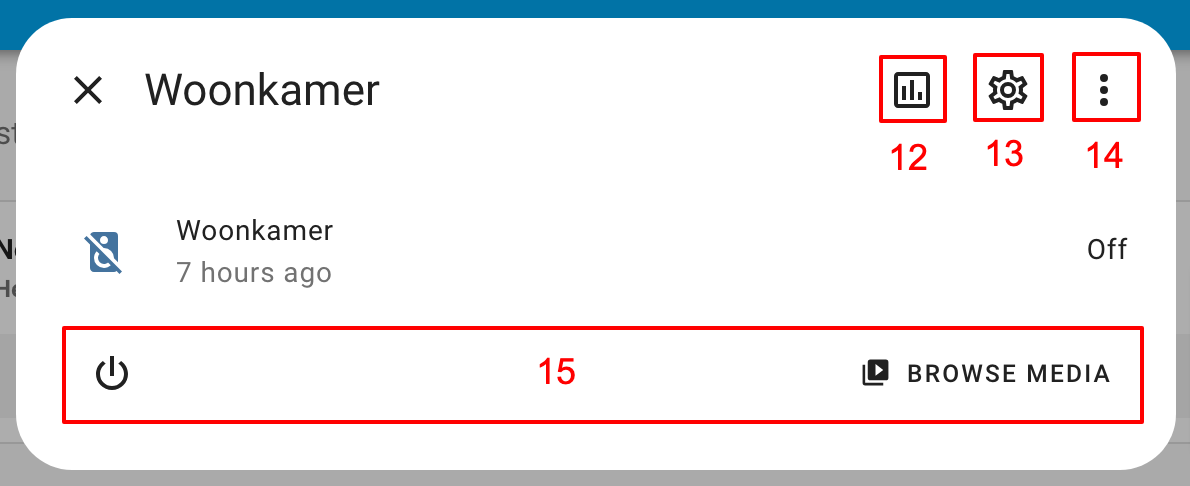
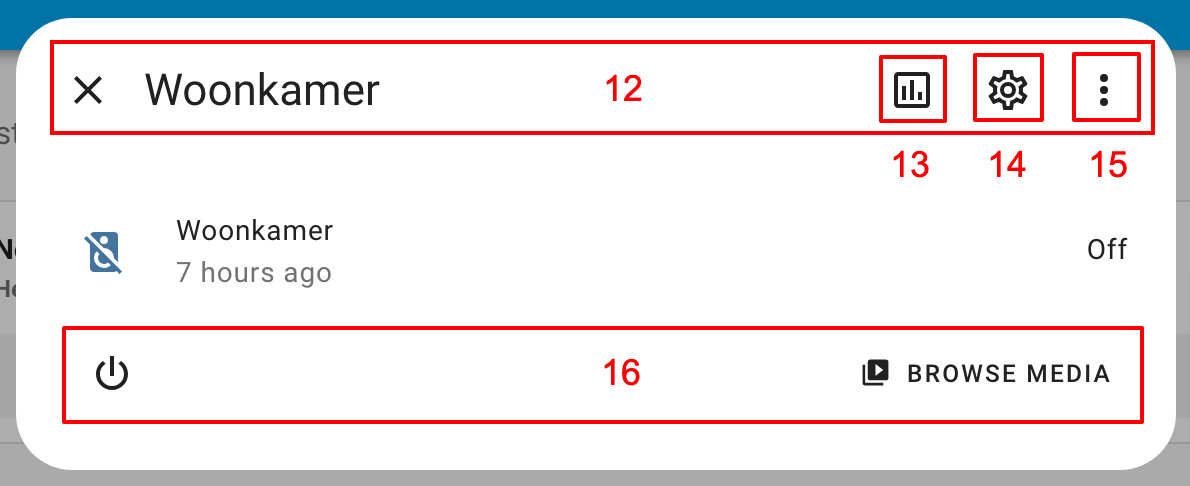
A new option to hide all the action items from the more info dialogs header

Changed region(s): [[0.0311, 0.0617, 0.995, 0.3704], [0.4353, 0.7407, 0.5597, 0.8025], [0.4975, 0.1543, 0.5597, 0.216]]

diff --git a/src/kiosk-mode.ts b/src/kiosk-mode.ts
@@ -53,6 +53,7 @@ class KioskMode implements KioskModeRunner {
         CACHE.UNUSED_ENTITIES,
         CACHE.RELOAD_RESOURCES,
         CACHE.EDIT_DASHBOARD,
+        CACHE.DIALOG_HEADER_ACTION_ITEMS,
         CACHE.DIALOG_HEADER_HISTORY,
         CACHE.DIALOG_HEADER_SETTINGS,
         CACHE.DIALOG_HEADER_OVERFLOW,
@@ -153,6 +154,7 @@ class KioskMode implements KioskModeRunner {
   private hideUnusedEntities: boolean;
   private hideReloadResources: boolean;
   private hideEditDashboard: boolean;
+  private hideDialogHeaderActionItems: boolean;
   private hideDialogHeaderHistory: boolean;
   private hideDialogHeaderSettings: boolean;
   private hideDialogHeaderOverflow: boolean;
@@ -259,33 +261,34 @@ class KioskMode implements KioskModeRunner {
     if (!window.kioskModeEntities[dash]) {
       window.kioskModeEntities[dash] = [];
     }
-    this.hideHeader                = false;
-    this.hideSidebar               = false;
-    this.hideOverflow              = false;
-    this.hideMenuButton            = false;
-    this.hideAccount               = false;
-    this.hideSearch                = false;
-    this.hideAssistant             = false;
-    this.hideRefresh               = false;
-    this.hideUnusedEntities        = false;
-    this.hideReloadResources       = false;
-    this.hideEditDashboard         = false;
-    this.hideDialogHeaderHistory   = false;
-    this.hideDialogHeaderSettings  = false;
-    this.hideDialogHeaderOverflow  = false;
-    this.hideDialogHistory         = false;
-    this.hideDialogLogbook         = false;
-    this.hideDialogAttributes      = false;
-    this.hideDialogMediaActions    = false;
-    this.hideDialogUpdateActions   = false;
-    this.hideDialogClimateActions  = false;
-    this.hideDialogHistoryShowMore = false;
-    this.hideDialogLogbookShowMore = false;
-    this.blockOverflow             = false;
-    this.blockMouse                = false;
-    this.ignoreEntity              = false;
-    this.ignoreMobile              = false;
-    this.ignoreDisableKm           = false;
+    this.hideHeader                  = false;
+    this.hideSidebar                 = false;
+    this.hideOverflow                = false;
+    this.hideMenuButton              = false;
+    this.hideAccount                 = false;
+    this.hideSearch                  = false;
+    this.hideAssistant               = false;
+    this.hideRefresh                 = false;
+    this.hideUnusedEntities          = false;
+    this.hideReloadResources         = false;
+    this.hideEditDashboard           = false;
+    this.hideDialogHeaderActionItems = false;
+    this.hideDialogHeaderHistory     = false;
+    this.hideDialogHeaderSettings    = false;
+    this.hideDialogHeaderOverflow    = false;
+    this.hideDialogHistory           = false;
+    this.hideDialogLogbook           = false;
+    this.hideDialogAttributes        = false;
+    this.hideDialogMediaActions      = false;
+    this.hideDialogUpdateActions     = false;
+    this.hideDialogClimateActions    = false;
+    this.hideDialogHistoryShowMore   = false;
+    this.hideDialogLogbookShowMore   = false;
+    this.blockOverflow               = false;
+    this.blockMouse                  = false;
+    this.ignoreEntity                = false;
+    this.ignoreMobile                = false;
+    this.ignoreDisableKm             = false;
 
     this.huiRoot = await getPromisableElement(
       (): ShadowRoot => this.lovelace?.shadowRoot?.querySelector(ELEMENT.HUI_ROOT)?.shadowRoot,
@@ -334,6 +337,7 @@ class KioskMode implements KioskModeRunner {
       CACHE.UNUSED_ENTITIES,
       CACHE.RELOAD_RESOURCES,
       CACHE.EDIT_DASHBOARD,
+      CACHE.DIALOG_HEADER_ACTION_ITEMS,
       CACHE.DIALOG_HEADER_HISTORY,
       CACHE.DIALOG_HEADER_SETTINGS,
       CACHE.DIALOG_HEADER_OVERFLOW,
@@ -362,6 +366,7 @@ class KioskMode implements KioskModeRunner {
       OPTION.HIDE_RELOAD_RESOURCES,
       OPTION.HIDE_UNUSED_ENTITIES,
       OPTION.HIDE_EDIT_DASHBOARD,
+      OPTION.HIDE_DIALOG_HEADER_ACTION_ITEMS,
       OPTION.HIDE_DIALOG_HEADER_HISTORY,
       OPTION.HIDE_DIALOG_HEADER_SETTINGS,
       OPTION.HIDE_DIALOG_HEADER_OVERFLOW,
@@ -379,30 +384,31 @@ class KioskMode implements KioskModeRunner {
 
     const cachedOptionsOrQueryStringsSet = cachedOptionsSet || queryStringsSet;
     if (cachedOptionsOrQueryStringsSet) {
-      this.hideHeader                = cached(CACHE.HEADER)                   || queryString([OPTION.KIOSK, OPTION.HIDE_HEADER]);
-      this.hideSidebar               = cached(CACHE.SIDEBAR)                  || queryString([OPTION.KIOSK, OPTION.HIDE_SIDEBAR]);
-      this.hideOverflow              = cached(CACHE.OVERFLOW)                 || queryString(OPTION.HIDE_OVERFLOW);
-      this.hideMenuButton            = cached(CACHE.MENU_BUTTON)              || queryString(OPTION.HIDE_MENU_BUTTON);
-      this.hideAccount               = cached(CACHE.ACCOUNT)                  || queryString(OPTION.HIDE_ACCOUNT);
-      this.hideSearch                = cached(CACHE.SEARCH)                   || queryString(OPTION.HIDE_SEARCH);
-      this.hideAssistant             = cached(CACHE.ASSISTANT)                || queryString(OPTION.HIDE_ASSISTANT);
-      this.hideRefresh               = cached(CACHE.REFRESH)                  || queryString(OPTION.HIDE_REFRESH);
-      this.hideUnusedEntities        = cached(CACHE.UNUSED_ENTITIES)          || queryString(OPTION.HIDE_UNUSED_ENTITIES);
-      this.hideReloadResources       = cached(CACHE.RELOAD_RESOURCES)         || queryString(OPTION.HIDE_RELOAD_RESOURCES);
-      this.hideEditDashboard         = cached(CACHE.EDIT_DASHBOARD)           || queryString(OPTION.HIDE_EDIT_DASHBOARD);
-      this.hideDialogHeaderHistory   = cached(CACHE.DIALOG_HEADER_HISTORY)    || queryString(OPTION.HIDE_DIALOG_HEADER_HISTORY);
-      this.hideDialogHeaderSettings  = cached(CACHE.DIALOG_HEADER_SETTINGS)   || queryString(OPTION.HIDE_DIALOG_HEADER_SETTINGS);
-      this.hideDialogHeaderOverflow  = cached(CACHE.DIALOG_HEADER_OVERFLOW)   || queryString(OPTION.HIDE_DIALOG_HEADER_OVERFLOW);
-      this.hideDialogHistory         = cached(CACHE.DIALOG_HISTORY)           || queryString(OPTION.HIDE_DIALOG_HISTORY);
-      this.hideDialogLogbook         = cached(CACHE.DIALOG_LOGBOOK)           || queryString(OPTION.HIDE_DIALOG_LOGBOOK);
-      this.hideDialogAttributes      = cached(CACHE.DIALOG_ATTRIBUTES)        || queryString(OPTION.HIDE_DIALOG_ATTRIBUTES);
-      this.hideDialogMediaActions    = cached(CACHE.DIALOG_MEDIA_ACTIONS)     || queryString(OPTION.HIDE_DIALOG_MEDIA_ACTIONS);
-      this.hideDialogUpdateActions   = cached(CACHE.DIALOG_UPDATE_ACTIONS)    || queryString(OPTION.HIDE_DIALOG_UPDATE_ACTIONS);
-      this.hideDialogClimateActions  = cached(CACHE.DIALOG_CLIMATE_ACTIONS)   || queryString(OPTION.HIDE_DIALOG_CLIMATE_ACTIONS);
-      this.hideDialogHistoryShowMore = cached(CACHE.DIALOG_HISTORY_SHOW_MORE) || queryString(OPTION.HIDE_DIALOG_HISTORY_SHOW_MORE);
-      this.hideDialogLogbookShowMore = cached(CACHE.DIALOG_LOGBOOK_SHOW_MORE) || queryString(OPTION.HIDE_DIALOG_LOGBOOK_SHOW_MORE);
-      this.blockOverflow             = cached(CACHE.OVERFLOW_MOUSE)           || queryString(OPTION.BLOCK_OVERFLOW);
-      this.blockMouse                = cached(CACHE.MOUSE)                    || queryString(OPTION.BLOCK_MOUSE);
+      this.hideHeader                  = cached(CACHE.HEADER)                     || queryString([OPTION.KIOSK, OPTION.HIDE_HEADER]);
+      this.hideSidebar                 = cached(CACHE.SIDEBAR)                    || queryString([OPTION.KIOSK, OPTION.HIDE_SIDEBAR]);
+      this.hideOverflow                = cached(CACHE.OVERFLOW)                   || queryString(OPTION.HIDE_OVERFLOW);
+      this.hideMenuButton              = cached(CACHE.MENU_BUTTON)                || queryString(OPTION.HIDE_MENU_BUTTON);
+      this.hideAccount                 = cached(CACHE.ACCOUNT)                    || queryString(OPTION.HIDE_ACCOUNT);
+      this.hideSearch                  = cached(CACHE.SEARCH)                     || queryString(OPTION.HIDE_SEARCH);
+      this.hideAssistant               = cached(CACHE.ASSISTANT)                  || queryString(OPTION.HIDE_ASSISTANT);
+      this.hideRefresh                 = cached(CACHE.REFRESH)                    || queryString(OPTION.HIDE_REFRESH);
+      this.hideUnusedEntities          = cached(CACHE.UNUSED_ENTITIES)            || queryString(OPTION.HIDE_UNUSED_ENTITIES);
+      this.hideReloadResources         = cached(CACHE.RELOAD_RESOURCES)           || queryString(OPTION.HIDE_RELOAD_RESOURCES);
+      this.hideEditDashboard           = cached(CACHE.EDIT_DASHBOARD)             || queryString(OPTION.HIDE_EDIT_DASHBOARD);
+      this.hideDialogHeaderActionItems = cached(CACHE.DIALOG_HEADER_ACTION_ITEMS) || queryString(OPTION.HIDE_DIALOG_HEADER_ACTION_ITEMS);
+      this.hideDialogHeaderHistory     = cached(CACHE.DIALOG_HEADER_HISTORY)      || queryString(OPTION.HIDE_DIALOG_HEADER_HISTORY);
+      this.hideDialogHeaderSettings    = cached(CACHE.DIALOG_HEADER_SETTINGS)     || queryString(OPTION.HIDE_DIALOG_HEADER_SETTINGS);
+      this.hideDialogHeaderOverflow    = cached(CACHE.DIALOG_HEADER_OVERFLOW)     || queryString(OPTION.HIDE_DIALOG_HEADER_OVERFLOW);
+      this.hideDialogHistory           = cached(CACHE.DIALOG_HISTORY)             || queryString(OPTION.HIDE_DIALOG_HISTORY);
+      this.hideDialogLogbook           = cached(CACHE.DIALOG_LOGBOOK)             || queryString(OPTION.HIDE_DIALOG_LOGBOOK);
+      this.hideDialogAttributes        = cached(CACHE.DIALOG_ATTRIBUTES)          || queryString(OPTION.HIDE_DIALOG_ATTRIBUTES);
+      this.hideDialogMediaActions      = cached(CACHE.DIALOG_MEDIA_ACTIONS)       || queryString(OPTION.HIDE_DIALOG_MEDIA_ACTIONS);
+      this.hideDialogUpdateActions     = cached(CACHE.DIALOG_UPDATE_ACTIONS)      || queryString(OPTION.HIDE_DIALOG_UPDATE_ACTIONS);
+      this.hideDialogClimateActions    = cached(CACHE.DIALOG_CLIMATE_ACTIONS)     || queryString(OPTION.HIDE_DIALOG_CLIMATE_ACTIONS);
+      this.hideDialogHistoryShowMore   = cached(CACHE.DIALOG_HISTORY_SHOW_MORE)   || queryString(OPTION.HIDE_DIALOG_HISTORY_SHOW_MORE);
+      this.hideDialogLogbookShowMore   = cached(CACHE.DIALOG_LOGBOOK_SHOW_MORE)   || queryString(OPTION.HIDE_DIALOG_LOGBOOK_SHOW_MORE);
+      this.blockOverflow               = cached(CACHE.OVERFLOW_MOUSE)             || queryString(OPTION.BLOCK_OVERFLOW);
+      this.blockMouse                  = cached(CACHE.MOUSE)                      || queryString(OPTION.BLOCK_MOUSE);
     } else {
       // Use config values only if config strings and cache aren't used.
       this.setOptions(config, false);
@@ -569,17 +575,19 @@ class KioskMode implements KioskModeRunner {
       .catch((message) => { console.warn(`${NAMESPACE}: ${NON_CRITICAL_WARNING} ${message}`) });
 
     if (
+      this.hideDialogHeaderActionItems ||
       this.hideDialogHeaderHistory ||
       this.hideDialogHeaderSettings ||
       this.hideDialogHeaderOverflow
     ) {
       const styles = [
-          this.hideDialogHeaderHistory ? STYLES.DIALOG_HEADER_HISTORY : '',
-          this.hideDialogHeaderSettings ? STYLES.DIALOG_HEADER_SETTINGS : '',
-          this.hideDialogHeaderOverflow ? STYLES.DIALOG_HEADER_OVERFLOW : ''
+        this.hideDialogHeaderActionItems || this.hideDialogHeaderHistory ? STYLES.DIALOG_HEADER_HISTORY : '',
+        this.hideDialogHeaderActionItems || this.hideDialogHeaderSettings ? STYLES.DIALOG_HEADER_SETTINGS : '',
+        this.hideDialogHeaderActionItems || this.hideDialogHeaderOverflow ? STYLES.DIALOG_HEADER_OVERFLOW : ''
       ];
       addStyle(styles.join(''), dialog);
       if (queryString(OPTION.CACHE)) {
+        if (this.hideDialogHeaderActionItems) setCache(CACHE.DIALOG_HEADER_ACTION_ITEMS, TRUE);
         if (this.hideDialogHeaderHistory) setCache(CACHE.DIALOG_HEADER_HISTORY, TRUE);
         if (this.hideDialogHeaderSettings) setCache(CACHE.DIALOG_HEADER_SETTINGS, TRUE);
         if (this.hideDialogHeaderOverflow) setCache(CACHE.DIALOG_HEADER_OVERFLOW, TRUE);
@@ -802,36 +810,37 @@ class KioskMode implements KioskModeRunner {
 
   protected setOptions(config: ConditionalKioskConfig, conditional: boolean) {
 
-    if (OPTION.HIDE_HEADER in config)                   this.hideHeader                = config[OPTION.HIDE_HEADER];
-    if (OPTION.HIDE_SIDEBAR in config)                  this.hideSidebar               = config[OPTION.HIDE_SIDEBAR];
-    if (OPTION.HIDE_OVERFLOW in config)                 this.hideOverflow              = config[OPTION.HIDE_OVERFLOW];
-    if (OPTION.HIDE_MENU_BUTTON in config)              this.hideMenuButton            = config[OPTION.HIDE_MENU_BUTTON];
-    if (OPTION.HIDE_ACCOUNT in config)                  this.hideAccount               = config[OPTION.HIDE_ACCOUNT];
-    if (OPTION.HIDE_SEARCH in config)                   this.hideSearch                = config[OPTION.HIDE_SEARCH];
-    if (OPTION.HIDE_ASSISTANT in config)                this.hideAssistant             = config[OPTION.HIDE_ASSISTANT];
-    if (OPTION.HIDE_REFRESH in config)                  this.hideRefresh               = config[OPTION.HIDE_REFRESH];
-    if (OPTION.HIDE_UNUSED_ENTITIES in config)          this.hideUnusedEntities        = config[OPTION.HIDE_UNUSED_ENTITIES];
-    if (OPTION.HIDE_RELOAD_RESOURCES in config)         this.hideReloadResources       = config[OPTION.HIDE_RELOAD_RESOURCES];
-    if (OPTION.HIDE_EDIT_DASHBOARD in config)           this.hideEditDashboard         = config[OPTION.HIDE_EDIT_DASHBOARD];
-    if (OPTION.HIDE_DIALOG_HEADER_HISTORY in config)    this.hideDialogHeaderHistory   = config[OPTION.HIDE_DIALOG_HEADER_HISTORY];
-    if (OPTION.HIDE_DIALOG_HEADER_SETTINGS in config)   this.hideDialogHeaderSettings  = config[OPTION.HIDE_DIALOG_HEADER_SETTINGS];
-    if (OPTION.HIDE_DIALOG_HEADER_OVERFLOW in config)   this.hideDialogHeaderOverflow  = config[OPTION.HIDE_DIALOG_HEADER_OVERFLOW];
-    if (OPTION.HIDE_DIALOG_HISTORY in config)           this.hideDialogHistory         = config[OPTION.HIDE_DIALOG_HISTORY];
-    if (OPTION.HIDE_DIALOG_LOGBOOK in config)           this.hideDialogLogbook         = config[OPTION.HIDE_DIALOG_LOGBOOK];
-    if (OPTION.HIDE_DIALOG_ATTRIBUTES in config)        this.hideDialogAttributes      = config[OPTION.HIDE_DIALOG_ATTRIBUTES];
-    if (OPTION.HIDE_DIALOG_MEDIA_ACTIONS in config)     this.hideDialogMediaActions    = config[OPTION.HIDE_DIALOG_MEDIA_ACTIONS];
-    if (OPTION.HIDE_DIALOG_UPDATE_ACTIONS in config)    this.hideDialogUpdateActions   = config[OPTION.HIDE_DIALOG_UPDATE_ACTIONS];
-    if (OPTION.HIDE_DIALOG_CLIMATE_ACTIONS in config)   this.hideDialogClimateActions  = config[OPTION.HIDE_DIALOG_CLIMATE_ACTIONS];
-    if (OPTION.HIDE_DIALOG_HISTORY_SHOW_MORE in config) this.hideDialogHistoryShowMore = config[OPTION.HIDE_DIALOG_HISTORY_SHOW_MORE];
-    if (OPTION.HIDE_DIALOG_LOGBOOK_SHOW_MORE in config) this.hideDialogLogbookShowMore = config[OPTION.HIDE_DIALOG_LOGBOOK_SHOW_MORE];
-    if (OPTION.BLOCK_OVERFLOW in config)                this.blockOverflow             = config[OPTION.BLOCK_OVERFLOW];
-    if (OPTION.BLOCK_MOUSE in config)                   this.blockMouse                = config[OPTION.BLOCK_MOUSE];
-    if (OPTION.KIOSK in config)                         this.hideHeader                = this.hideSidebar = config[OPTION.KIOSK];
+    if (OPTION.HIDE_HEADER in config)                     this.hideHeader                  = config[OPTION.HIDE_HEADER];
+    if (OPTION.HIDE_SIDEBAR in config)                    this.hideSidebar                 = config[OPTION.HIDE_SIDEBAR];
+    if (OPTION.HIDE_OVERFLOW in config)                   this.hideOverflow                = config[OPTION.HIDE_OVERFLOW];
+    if (OPTION.HIDE_MENU_BUTTON in config)                this.hideMenuButton              = config[OPTION.HIDE_MENU_BUTTON];
+    if (OPTION.HIDE_ACCOUNT in config)                    this.hideAccount                 = config[OPTION.HIDE_ACCOUNT];
+    if (OPTION.HIDE_SEARCH in config)                     this.hideSearch                  = config[OPTION.HIDE_SEARCH];
+    if (OPTION.HIDE_ASSISTANT in config)                  this.hideAssistant               = config[OPTION.HIDE_ASSISTANT];
+    if (OPTION.HIDE_REFRESH in config)                    this.hideRefresh                 = config[OPTION.HIDE_REFRESH];
+    if (OPTION.HIDE_UNUSED_ENTITIES in config)            this.hideUnusedEntities          = config[OPTION.HIDE_UNUSED_ENTITIES];
+    if (OPTION.HIDE_RELOAD_RESOURCES in config)           this.hideReloadResources         = config[OPTION.HIDE_RELOAD_RESOURCES];
+    if (OPTION.HIDE_EDIT_DASHBOARD in config)             this.hideEditDashboard           = config[OPTION.HIDE_EDIT_DASHBOARD];
+    if (OPTION.HIDE_DIALOG_HEADER_ACTION_ITEMS in config) this.hideDialogHeaderActionItems = config[OPTION.HIDE_DIALOG_HEADER_ACTION_ITEMS];         
+    if (OPTION.HIDE_DIALOG_HEADER_HISTORY in config)      this.hideDialogHeaderHistory     = config[OPTION.HIDE_DIALOG_HEADER_HISTORY];
+    if (OPTION.HIDE_DIALOG_HEADER_SETTINGS in config)     this.hideDialogHeaderSettings    = config[OPTION.HIDE_DIALOG_HEADER_SETTINGS];
+    if (OPTION.HIDE_DIALOG_HEADER_OVERFLOW in config)     this.hideDialogHeaderOverflow    = config[OPTION.HIDE_DIALOG_HEADER_OVERFLOW];
+    if (OPTION.HIDE_DIALOG_HISTORY in config)             this.hideDialogHistory           = config[OPTION.HIDE_DIALOG_HISTORY];
+    if (OPTION.HIDE_DIALOG_LOGBOOK in config)             this.hideDialogLogbook           = config[OPTION.HIDE_DIALOG_LOGBOOK];
+    if (OPTION.HIDE_DIALOG_ATTRIBUTES in config)          this.hideDialogAttributes        = config[OPTION.HIDE_DIALOG_ATTRIBUTES];
+    if (OPTION.HIDE_DIALOG_MEDIA_ACTIONS in config)       this.hideDialogMediaActions      = config[OPTION.HIDE_DIALOG_MEDIA_ACTIONS];
+    if (OPTION.HIDE_DIALOG_UPDATE_ACTIONS in config)      this.hideDialogUpdateActions     = config[OPTION.HIDE_DIALOG_UPDATE_ACTIONS];
+    if (OPTION.HIDE_DIALOG_CLIMATE_ACTIONS in config)     this.hideDialogClimateActions    = config[OPTION.HIDE_DIALOG_CLIMATE_ACTIONS];
+    if (OPTION.HIDE_DIALOG_HISTORY_SHOW_MORE in config)   this.hideDialogHistoryShowMore   = config[OPTION.HIDE_DIALOG_HISTORY_SHOW_MORE];
+    if (OPTION.HIDE_DIALOG_LOGBOOK_SHOW_MORE in config)   this.hideDialogLogbookShowMore   = config[OPTION.HIDE_DIALOG_LOGBOOK_SHOW_MORE];
+    if (OPTION.BLOCK_OVERFLOW in config)                  this.blockOverflow               = config[OPTION.BLOCK_OVERFLOW];
+    if (OPTION.BLOCK_MOUSE in config)                     this.blockMouse                  = config[OPTION.BLOCK_MOUSE];
+    if (OPTION.KIOSK in config)                           this.hideHeader                  = this.hideSidebar = config[OPTION.KIOSK];
 
     if (conditional) {
-      if (OPTION.IGNORE_ENTITY_SETTINGS in config)      this.ignoreEntity              = config[OPTION.IGNORE_ENTITY_SETTINGS];
-      if (OPTION.IGNORE_MOBILE_SETTINGS in config)      this.ignoreMobile              = config[OPTION.IGNORE_MOBILE_SETTINGS];
-      if (OPTION.IGNORE_DISABLE_KM in config)           this.ignoreDisableKm           = config[OPTION.IGNORE_DISABLE_KM];
+      if (OPTION.IGNORE_ENTITY_SETTINGS in config)        this.ignoreEntity              = config[OPTION.IGNORE_ENTITY_SETTINGS];
+      if (OPTION.IGNORE_MOBILE_SETTINGS in config)        this.ignoreMobile              = config[OPTION.IGNORE_MOBILE_SETTINGS];
+      if (OPTION.IGNORE_DISABLE_KM in config)             this.ignoreDisableKm           = config[OPTION.IGNORE_DISABLE_KM];
     }
     
   }

diff --git a/src/constants/index.ts b/src/constants/index.ts
@@ -15,6 +15,7 @@ export enum CACHE {
     UNUSED_ENTITIES = 'kmUnusedEntities',
     RELOAD_RESOURCES = 'kmReloadResources',
     EDIT_DASHBOARD = 'kmEditDashboard',
+    DIALOG_HEADER_ACTION_ITEMS = 'kmDialogHeaderActionItems',
     DIALOG_HEADER_HISTORY = 'kmDialogHeaderHistory',
     DIALOG_HEADER_SETTINGS = 'kmDialogHeaderSettings',
     DIALOG_HEADER_OVERFLOW = 'kmDialogHeaderOverflow',
@@ -46,6 +47,7 @@ export enum OPTION {
     HIDE_UNUSED_ENTITIES = 'hide_unused_entities',
     HIDE_RELOAD_RESOURCES = 'hide_reload_resources',
     HIDE_EDIT_DASHBOARD = 'hide_edit_dashboard',
+    HIDE_DIALOG_HEADER_ACTION_ITEMS = 'hide_dialog_header_action_items',
     HIDE_DIALOG_HEADER_HISTORY = 'hide_dialog_header_history',
     HIDE_DIALOG_HEADER_SETTINGS = 'hide_dialog_header_settings',
     HIDE_DIALOG_HEADER_OVERFLOW = 'hide_dialog_header_overflow',

diff --git a/src/types/index.ts b/src/types/index.ts
@@ -37,6 +37,7 @@ export interface KioskConfig {
     hide_unused_entities?: boolean;
     hide_reload_resources?: boolean;
     hide_edit_dashboard?: boolean;
+    hide_dialog_header_action_items?: boolean;
     hide_dialog_header_history?: boolean;
     hide_dialog_header_settings?: boolean;
     hide_dialog_header_overflow?: boolean;

diff --git a/README.md b/README.md
@@ -86,6 +86,7 @@ views:
 |`hide_reload_resources`                   | Boolean | false   | Hides the "Reload resources" button inside the top right overflow menu in lovelace yaml mode. |
 |`hide_dialog_header_history`              | Boolean | false   | Hides the "History" icon in the header of more-info dialogs. |
 |`hide_dialog_header_history`              | Boolean | false   | Hides the "History" icon in the header of more-info dialogs. |
+|`hide_dialog_header_action_items`         | Boolean | false   | Hides all the action items from the header of more-info dialogs. |
 |`hide_dialog_header_settings`<sup>2</sup> | Boolean | false   | Hides the "Settings" icon in the header of more-info dialogs. |
 |`hide_dialog_header_overflow`<sup>2</sup> | Boolean | false   | Hides the top right overflow menu in the header of more-info dialogs. |
 |`hide_dialog_history`                     | Boolean | false   | Hides the "History" section in the more-info dialogs. |
@@ -153,12 +154,13 @@ views:
 <br>*More info dialog (media entity)*
 <br>
 
-| Options                       | Hides |
-|:------------------------------|:------|
-| `hide_dialog_header_history`  | 12    |
-| `hide_dialog_header_settings` | 13    |
-| `hide_dialog_header_overflow` | 14    |
-| `hide_dialog_media_actions`   | 15    |
+| Options                           | Hides |
+|:----------------------------------|:------|
+| `hide_dialog_header_action_items` | 12 |
+| `hide_dialog_header_history`      | 13    |
+| `hide_dialog_header_settings`     | 14    |
+| `hide_dialog_header_overflow`     | 15    |
+| `hide_dialog_media_actions`       | 16    |
 <br>
 
 ![Lovelace Dashboard](images/more-info-dialog-climate-entity.png)
@@ -167,7 +169,7 @@ views:
 
 | Options                       | Hides |
 |:------------------------------|:------|
-| `hide_dialog_climate_actions` | 16    |
+| `hide_dialog_climate_actions` | 17    |
 <br>
 
 ![Lovelace Dashboard](images/more-info-dialog-update-entity.png)
@@ -176,7 +178,7 @@ views:
 
 | Options                      | Hides |
 |:-----------------------------|:------|
-| `hide_dialog_update_actions` | 17    |
+| `hide_dialog_update_actions` | 18    |
 <br>
 
 ![Lovelace Dashboard](images/more-info-dialog-history-logbook-attributes.png)
@@ -185,11 +187,11 @@ views:
 
 | Options                         | Hides |
 |:--------------------------------|:------|
-| `hide_dialog_history`           | 18    |
-| `hide_dialog_logbook`           | 19    |
-| `hide_dialog_attributes`        | 20    |
-| `hide_dialog_history_show_more` | 21    |
-| `hide_dialog_logbook_show_more` | 22    |
+| `hide_dialog_history`           | 19    |
+| `hide_dialog_logbook`           | 20    |
+| `hide_dialog_attributes`        | 21    |
+| `hide_dialog_history_show_more` | 22    |
+| `hide_dialog_logbook_show_more` | 23    |
 
 <br>
 
